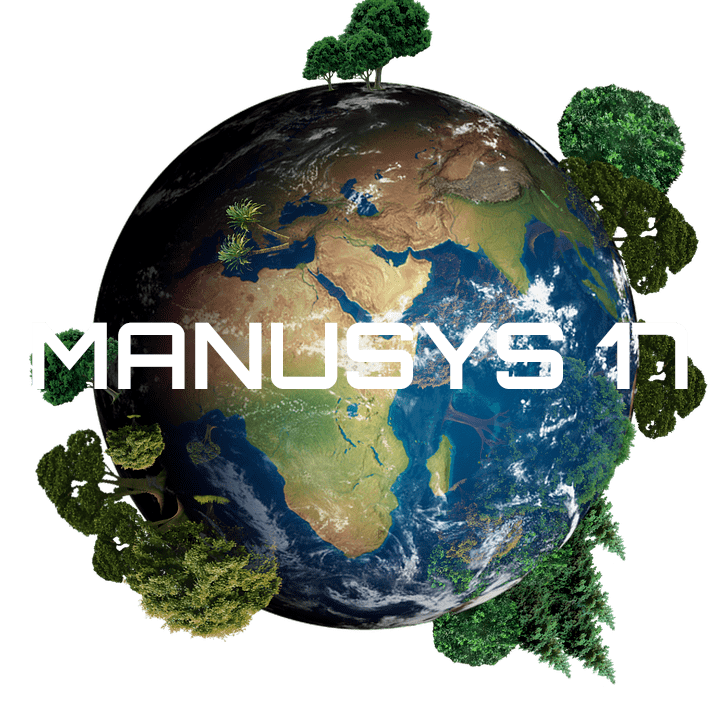
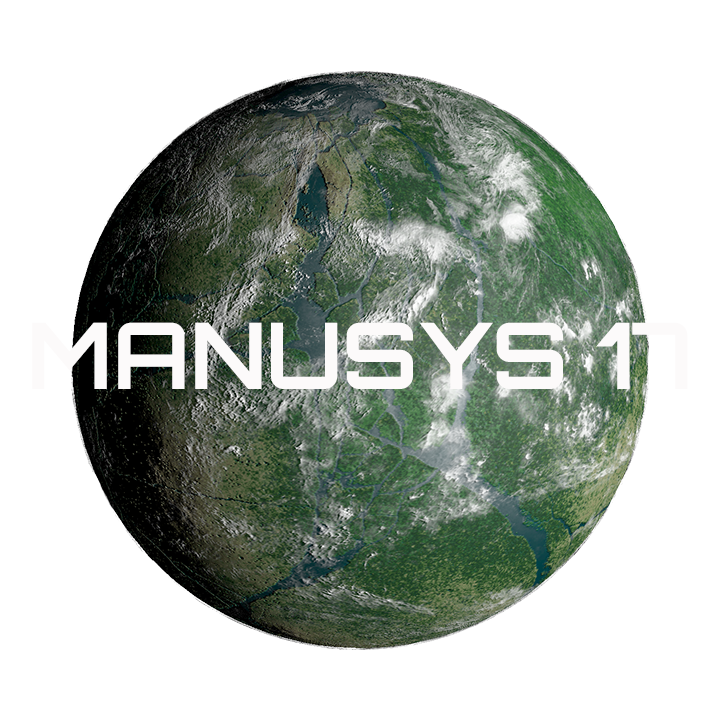
update home pages

diff --git a/index.html b/index.html
@@ -621,9 +621,9 @@ height: 80%;
 		  <img src="new/p6.png" class="rock1 tech_rock" style="width: 300px;">
 		  <img src="new/p2.png" class="rock3 tech_rock" style="width:200px">
 		  <img src="new/p3.png" class="rock4 tech_rock" style="width:300px">
-		  <img src="new/p5.png" class="rock7 " style="width:100px;">
-		  <img src="img/rock8.png" class="rock8 ">
-		 <!-- <img src="img/rocky1.png" class="rocky1 rocky">
+		  <img src="new/p2.png" class="rock7 tech_rock" style="width:100px;">
+		  <!--<img src="img/rock8.png" class="rock8 ">
+		 <img src="img/rocky1.png" class="rocky1 rocky">
 		  <img src="img/rocky2.png" class="rocky2 rocky">
 		  <img src="img/rocky3.png" class="rocky3 rocky">
 		  <img src="img/rocky4.png" class="rocky4 rocky">
@@ -648,13 +648,13 @@ height: 80%;
 		  <img src="img/rocky07.png" class="rocky07 rocky">
 		  <img src="img/rock10.png" class="rock10 tech_rock">
 		  <img src="img/rock11.png" class="rock11 tech_rock">-->
-		  <img src="img/cloud2.png" class="cloud cloud2 ">
+		 <!-- <img src="img/cloud2.png" class="cloud cloud2 ">
 		  <img src="img/cloud3.png" class="cloud cloud3 floating_1">
 		  <!--<img src="img/cloud4.png" class="cloud cloud4 floating1">
 		  <!--<img src="img/cloud5.png" class="cloud cloud5 floating1_1">-->
 		  <!--<img src="img/cloud6.png" class="cloud cloud6">-->
-		  <img src="img/cloud7.png" class="cloud cloud7 floating_1">
-		  <img src="new/p7.png" class="techkriti tech_rock" style="width:640px">
+		 <!-- <img src="img/cloud7.png" class="cloud cloud7 floating_1">-->
+		  <img src="new/p9.png" class="techkriti tech_rock" style="width:640px">
 		  <div class="arrow animated bounce" id='uparrow' class=""><img src='downarrow.png'  style="width:40px;left: -20px;
 "/></div>
 
@@ -798,7 +798,7 @@ height: 80%;
 <script type="text/javascript" src="data/js/main.js"></script>
 <script src="https://ajax.googleapis.com/ajax/libs/jquery/3.1.1/jquery.min.js"></script>
 <script src="script_name.js"></script>
-<script src="smoke.js"></script>
+<!--<script src="smoke.js"></script>-->
 <script src="jquery.js"></script>
 <script>
 $(window).bind("load", function() {
@@ -812,7 +812,7 @@ $(window).bind("load", function() {
                 }
             });
 	$('.preload').delay(1000).fadeOut();
-	     $(".techkriti").animate({top: "15%"});
+	     $(".techkriti").animate({top: "40%"});
   var canvas = document.getElementById('canvas')
   var ctx = canvas.getContext('2d')
   canvas.width = innerWidth

diff --git a/style1e42d.css b/style1e42d.css
@@ -6,7 +6,7 @@ html{
 	position: absolute;
 	  }
 	  body{
-    background-image: url(img/bg.jpg);
+    background-image: url(img/img.jpg);
     background-size: cover;
     background-repeat: no-repeat;
     width: 100%;
@@ -184,6 +184,7 @@ html{
 	    	  	z-index: 2;
 
 	}
+
 	.cloud7{
 		animation-duration: 150s!important;
 	}
